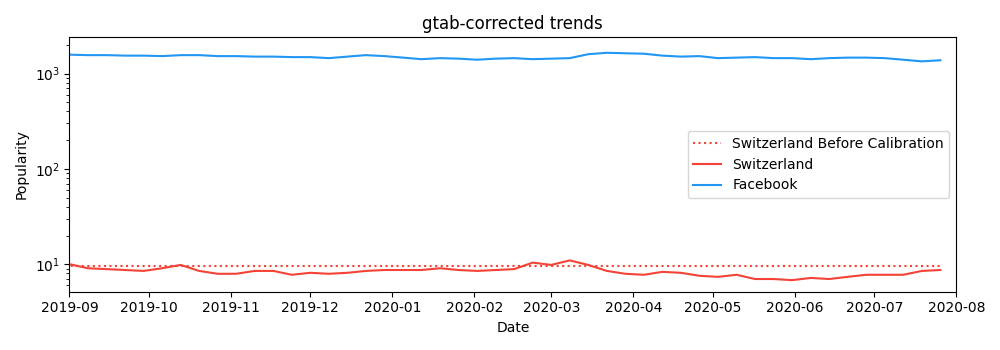
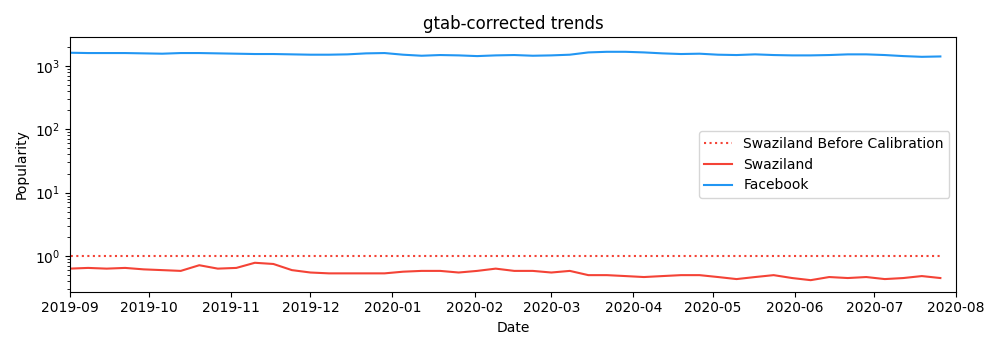
Changes switzerland to swaziland!

diff --git a/example/generate_leads.py b/example/generate_leads.py
@@ -6,16 +6,16 @@ import gtab
 
 t = gtab.GTAB()
 
-query_switzerland = t.new_query("Switzerland")
+query_swaziland = t.new_query("swaziland")
 query_facebook = t.new_query("Facebook")
 query_google = t.new_query("Google")
 
 # result1.png
 
-plt.plot(query_switzerland.index,
-         np.ceil(query_switzerland.max_ratio.values / 18.52) * 9.52,
-         color="#F44336", label="Switzerland Before Calibration", ls=":")
-plt.plot(query_switzerland.max_ratio, color="#F44336", label="Switzerland")
+plt.plot(query_swaziland.index,
+         np.ceil(query_swaziland.max_ratio.values / 1.52) * 1,
+         color="#F44336", label="Swaziland Before Calibration", ls=":")
+plt.plot(query_swaziland.max_ratio, color="#F44336", label="Swaziland")
 
 plt.plot(query_facebook.max_ratio, color="#2196F3", label="Facebook")
 plt.yscale("log")
@@ -31,7 +31,7 @@ plt.show()
 # result2.png
 
 plt.plot(query_facebook.max_ratio, color="#2196F3", label="Facebook")
-plt.plot(query_switzerland.max_ratio, color="#F44336", label="Switzerland")
+plt.plot(query_swaziland.max_ratio, color="#F44336", label="Swaziland")
 plt.plot(query_google.max_ratio, color="#F4B402", label="Google")
 plt.yscale("log")
 plt.xlabel("Date")

diff --git a/README.md b/README.md
@@ -9,17 +9,17 @@ Despite the overall value of Google Trends, data scientists face certain problem
 2. Results are rounded to integer precision, which may cause major problems.
 
 Let's illustrate these two problems visually.
-For example, lets say you want to compare the popularity of searches for "Facebook" to searches for "Switerland":
+For example, lets say you want to compare the popularity of searches for "Facebook" to searches for "Swaziland":
 
 ![Image portraying rounding issues with Google Trends](./example/imgs/lead.png)
 
 We find that the comparison is highly non-informative:
-Since the popularity of Switzerland is always "<1%", we simply can't compare the two!
+Since the popularity of "Swaziland" is always "<1%", we simply can't compare the two!
 Moreover, if we did another query, say, "Facebook" and "Google", the values for "Facebook" would be different, since the results are relative:
 
 ![Image portraying transitivity issues with Google Trends](./example/imgs/lead2.png)
 
-
+**Trivia:** The (former) Kingdowm of Swaziland changed their name to the Kingdom of Eswatini in 2018, to prevent confusions with Switzerland.
 # `gtab` to the rescue!
 
 Fortunately, this library solves these problems. Simply run this code:
@@ -28,8 +28,8 @@ Fortunately, this library solves these problems. Simply run this code:
 import gtab
 t = gtab.GTAB()
 # Make the queries which will return precise values!
-query_facebook = t.new_query("Facebook")
-query_switzerland = t.new_query("Switzerland")
+query_facebook = t.new_query("facebook")
+query_swaziland = t.new_query("swaziland")
 ~~~
 
 And you will have the two queries in a universal scale.
@@ -58,7 +58,7 @@ plt.show()
 
 ![Image portraying output of the library, where issues are fixed](./example/imgs/result1.png)
 
-In this plot, Switzerland is now not distorted by the huge difference in popularity anymore.
+In this plot, "Swaziland" is now not distorted by the huge difference in popularity anymore.
 (You can even see some oscillations of popularity.)
 
 Importantly, if we now queried "Google", as in the example above, results would appear on the same scale:
@@ -87,7 +87,7 @@ gtab-init your-path-here
 And then you can simply query anything with:
 
 ~~~bash
-gtab-query Switzerland Google Facebook --results_file my_query.json 
+gtab-query Swaziland Google Facebook --results_file my_query.json 
 ~~~
 
 Your query(ies) will be saved in `your-path-here/query_results/my_query.json`.
@@ -95,7 +95,7 @@ The output looks like this:
 
 ~~~json
 {
-    "Switzerland": {
+    "Swaziland": {
         "ts_timestamp": [
             "2019-01-06 00:00:00",
             "2019-01-13 00:00:00",
